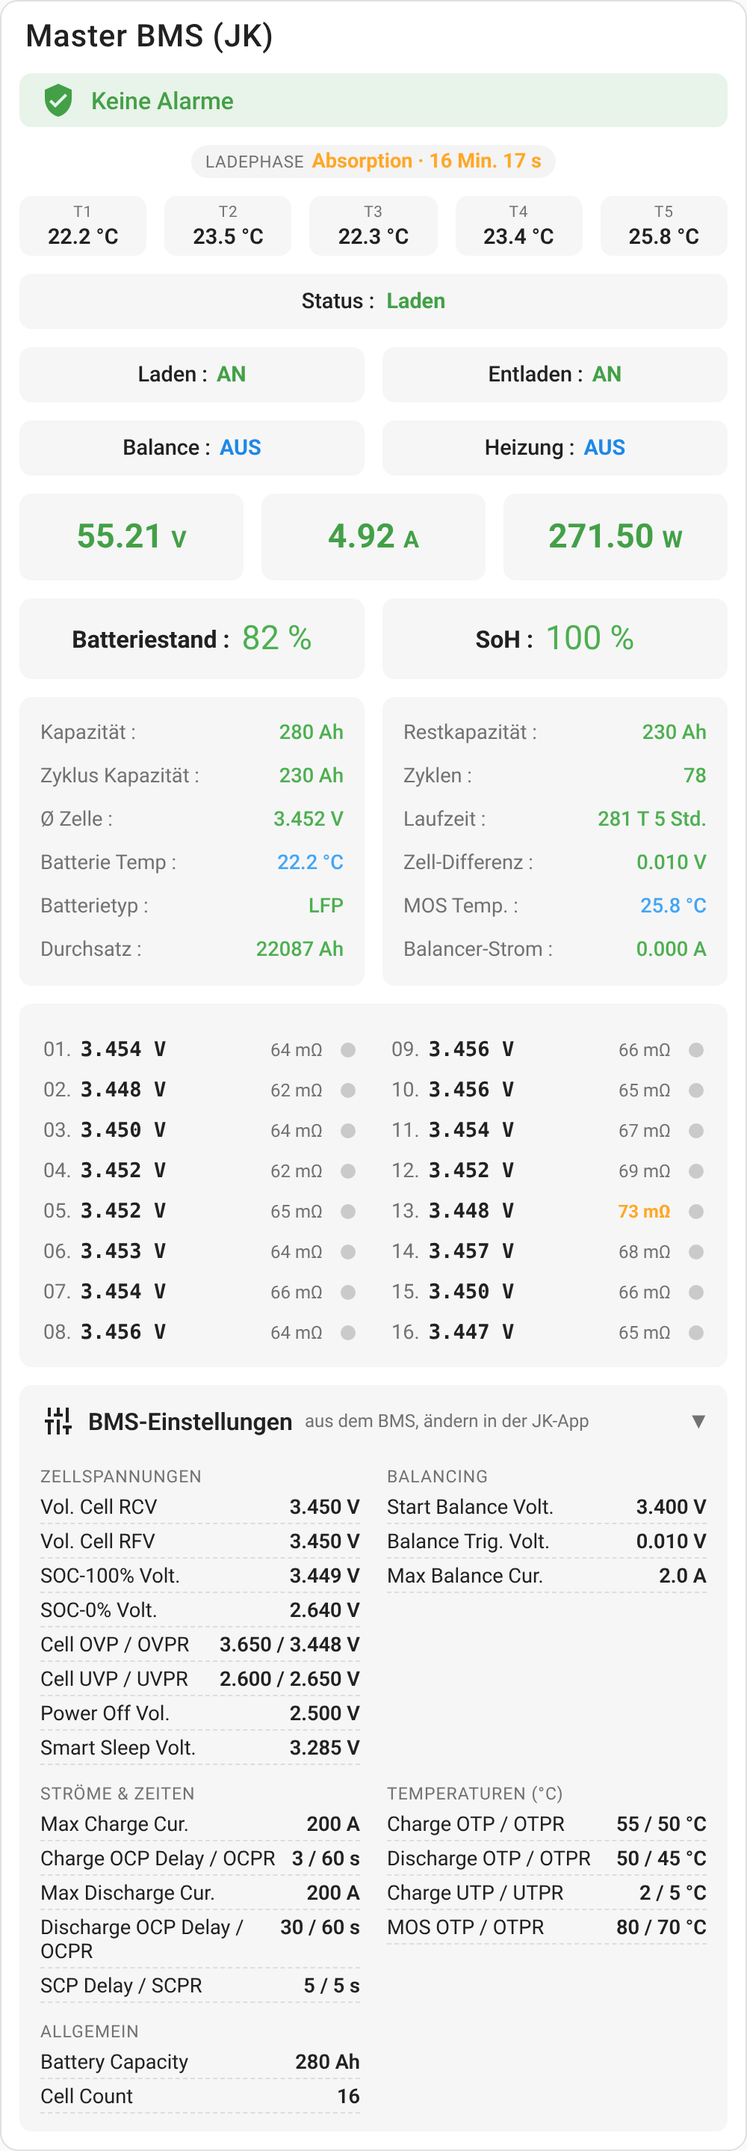
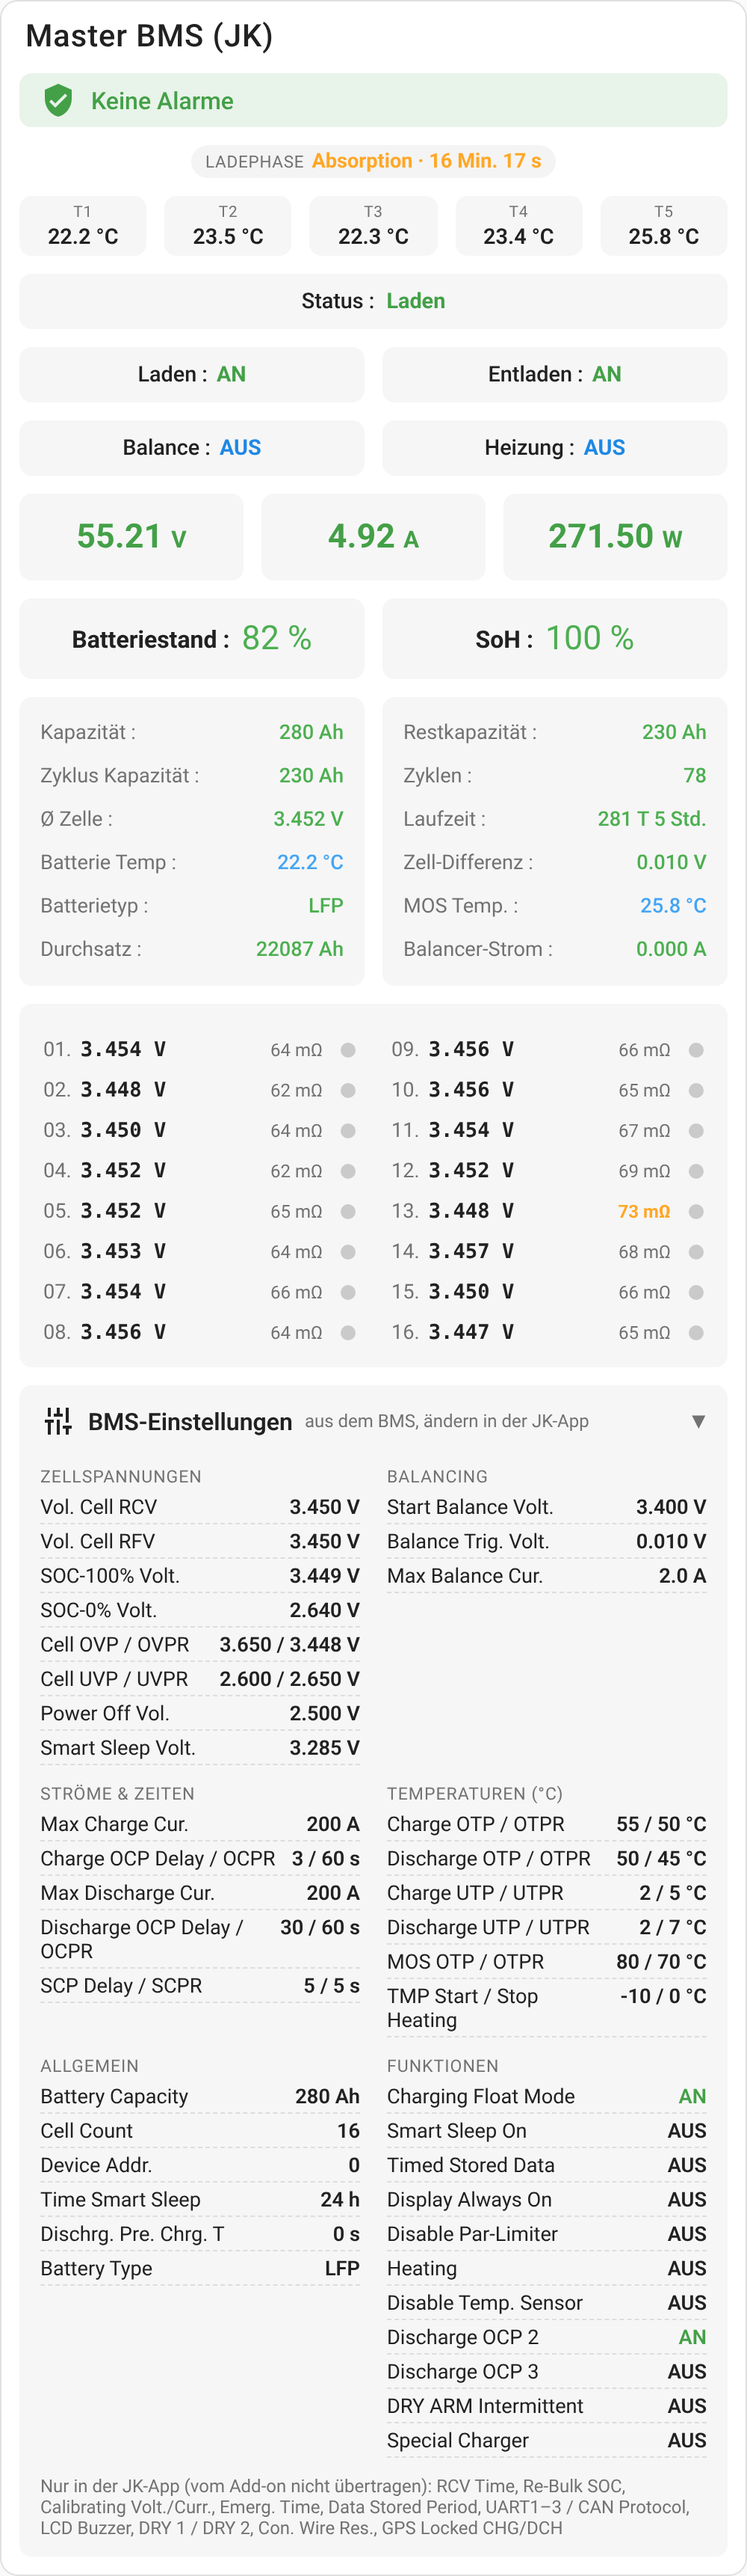
BMS-Einstellungen vollständig: alle Werte, die das Add-on liefert (v_2.0-jk.4)
- neu: Discharge UTP/UTPR, Heizung Start/Stop, Geräteadresse, Smart-Sleep-Zeit,
  Vorladezeit, Batterietyp
- neue Gruppe „Funktionen“: Charging Float Mode, Smart Sleep, Timed Stored Data,
  Display Always On, Par-Limiter, Heizung, Temp.-Sensor aus, Discharge OCP 2/3,
  DRY ARM Intermittent, Special Charger (AN/AUS)
- Hinweiszeile: Werte, die nur in der JK-App stehen (RCV Time, Re-Bulk SOC …),
  weil das Add-on sie nicht nach HA überträgt
- Screenshots neu

Claude-Session: https://claude.ai/code/session_01C5juEoGqVjLf8usnHZRGpz

diff --git a/dist/bms-battery-cells-card-jkbms.js b/dist/bms-battery-cells-card-jkbms.js
@@ -85,6 +85,8 @@ var de = {
         val_off: "Wert für OFF (z.B. 'Aus' oder 'False')"
     },
     card: {
+        set_func: "Funktionen",
+        set_app_only: "Nur in der JK-App (vom Add-on nicht übertragen)",
         bms_settings: "BMS-Einstellungen",
         bms_settings_hint: "aus dem BMS, ändern in der JK-App",
         set_volt: "Zellspannungen",
@@ -242,6 +244,8 @@ var en = {
         val_off: "Value for OFF (e.g. 'OFF' or 'False')"
     },
     card: {
+        set_func: "Functions",
+        set_app_only: "Only in the JK app (not sent by the add-on)",
         bms_settings: "BMS settings",
         bms_settings_hint: "read from BMS, change in JK app",
         set_volt: "Cell voltages",
@@ -663,11 +667,30 @@ const JK_SETTINGS = [
   ['temp', 'Charge OTP / OTPR', 'charge_overtemperature_protection', 'charge_overtemperature_protection_recovery', 0],
   ['temp', 'Discharge OTP / OTPR', 'discharge_overtemperature_protection', 'discharge_overtemperature_protection_recovery', 0],
   ['temp', 'Charge UTP / UTPR', 'charge_undertemperature_protection', 'charge_undertemperature_protection_recovery', 0],
+  ['temp', 'Discharge UTP / UTPR', 'sensor:discharge_undertemperature_protection', 'sensor:discharge_undertemperature_protection_recovery', 0],
   ['temp', 'MOS OTP / OTPR', 'power_tube_overtemperature_protection', 'power_tube_overtemperature_protection_recovery', 0],
+  ['temp', 'TMP Start / Stop Heating', 'sensor:heating_start_temperature', 'sensor:heating_stop_temperature', 0],
   ['gen', 'Battery Capacity', 'total_battery_capacity_ah', null, 0],
   ['gen', 'Cell Count', 'cell_count', null, 0],
+  ['gen', 'Device Addr.', 'device_address', null, 0],
+  ['gen', 'Time Smart Sleep', 'sensor:smart_sleep_delay', null, 0],
+  ['gen', 'Dischrg. Pre. Chrg. T', 'sensor:precharge_time', null, 0],
+  ['gen', 'Battery Type', 'sensor:battery_type_text', null, null],
+  ['func', 'Charging Float Mode', 'switch:charging_floating_mode', null, 'bool'],
+  ['func', 'Smart Sleep On', 'switch:smart_sleep_switch', null, 'bool'],
+  ['func', 'Timed Stored Data', 'switch:timed_stored_data_switch', null, 'bool'],
+  ['func', 'Display Always On', 'switch:display_always_on_switch', null, 'bool'],
+  ['func', 'Disable Par-Limiter', 'switch:disable_pcl_module_switch', null, 'bool'],
+  ['func', 'Heating', 'binary_sensor:heating_switch', null, 'bool'],
+  ['func', 'Disable Temp. Sensor', 'binary_sensor:disable_temperature_sensors', null, 'bool'],
+  ['func', 'Discharge OCP 2', 'binary_sensor:discharge_ocp2', null, 'bool'],
+  ['func', 'Discharge OCP 3', 'binary_sensor:discharge_ocp3', null, 'bool'],
+  ['func', 'DRY ARM Intermittent', 'binary_sensor:dry_alarm_intermittent', null, 'bool'],
+  ['func', 'Special Charger', 'binary_sensor:special_charger', null, 'bool'],
 ];
-const JK_SETTING_ID = 'number.{p}_bms_{k}';
+const JK_SETTING_ID = '{d}.{p}_bms_{k}';
+// In der JK-App einstellbar, vom Add-on aber nicht nach Home Assistant übertragen
+const JK_APP_ONLY = ['RCV Time', 'Re-Bulk SOC', 'Calibrating Volt./Curr.', 'Emerg. Time', 'Data Stored Period', 'UART1–3 / CAN Protocol', 'LCD Buzzer', 'DRY 1 / DRY 2', 'Con. Wire Res.', 'GPS Locked CHG/DCH'];
 
 const JK_TEMPS = ['temp_entity', 'temp_2_entity', 'temp_3_entity', 'temp_4_entity', 'temp_5_entity'];
 const JK_CELL = "sensor.{p}_bms_cell_{i}_volt";
@@ -1158,7 +1181,7 @@ class BmsBatteryCellsCard extends HTMLElement {
             this._config.cells = cells;
         }
         // BMS-Einstellungen: nur die Einträge, deren Entität es gibt
-        const sid = (k) => k ? fill(JK_SETTING_ID).replace('{k}', k) : null;
+        const sid = (k) => { if (!k) return null; const [d, n] = k.includes(':') ? k.split(':') : ['number', k]; return fill(JK_SETTING_ID).replace('{d}', d).replace('{k}', n); };
         this._jkSettings = JK_SETTINGS.map(([group, label, k1, k2, dec], i) => ({
             group, label, dec, idx: i,
             a: states[sid(k1)] ? sid(k1) : null,
@@ -1172,7 +1195,7 @@ class BmsBatteryCellsCard extends HTMLElement {
     }
 
     _renderJkSettingsHtml() {
-        const groups = [['volt', 'card.set_volt'], ['bal', 'card.set_bal'], ['cur', 'card.set_cur'], ['temp', 'card.set_temp'], ['gen', 'card.set_gen']];
+        const groups = [['volt', 'card.set_volt'], ['bal', 'card.set_bal'], ['cur', 'card.set_cur'], ['temp', 'card.set_temp'], ['gen', 'card.set_gen'], ['func', 'card.set_func']];
         const body = groups.map(([g, key]) => {
             const rows = this._jkSettings.filter(s => s.group === g);
             if (!rows.length) return '';
@@ -1182,17 +1205,27 @@ class BmsBatteryCellsCard extends HTMLElement {
         return `<details class="box jk-settings" ${this._config.jk_settings_open ? 'open' : ''}>
             <summary><ha-icon icon="mdi:tune-vertical"></ha-icon><span>${this._localize('card.bms_settings')}</span><span class="jk-set-hint">${this._localize('card.bms_settings_hint')}</span></summary>
             <div class="jk-set-grid">${body}</div>
+            <div class="jk-set-apponly">${this._localize('card.set_app_only')}: ${JK_APP_ONLY.join(', ')}</div>
         </details>`;
     }
 
     _updateJkSettings() {
         const fmt = (id, dec) => {
+            if (dec === null) { const s = this._getState(id); return s && !['unknown', 'unavailable'].includes(s) ? String(s) : '--'; }
             const v = this._parseNumber(id);
             return v === null ? '--' : v.toFixed(dec);
         };
         this._jkSettings.forEach(s => {
             const el = this.shadowRoot.getElementById(`jk-set-${s.idx}`);
             if (!el) return;
+            if (s.dec === 'bool') {
+                const st = String(this._getState(s.a) || '').toLowerCase();
+                const on = st === 'on';
+                const out = ['on', 'off'].includes(st) ? this._localize(on ? 'card.on' : 'card.off') : '--';
+                if (el.innerText !== out) el.innerText = out;
+                el.style.color = on ? '#43a047' : '';
+                return;
+            }
             const unit = this._getUnit(s.a);
             const txt = s.b ? `${fmt(s.a, s.dec)} / ${fmt(s.b, s.dec)}` : fmt(s.a, s.dec);
             const out = `${txt}${unit ? ' ' + unit : ''}`;
@@ -2125,6 +2158,7 @@ class BmsBatteryCellsCard extends HTMLElement {
                 .jk-set-head { font-size: 0.72rem; text-transform: uppercase; letter-spacing: .5px; color: var(--secondary-text-color); margin: 6px 0 2px; }
                 .jk-set-row { display: flex; justify-content: space-between; gap: 8px; font-size: 0.85rem; padding: 2px 0; border-bottom: 1px dashed rgba(127,127,127,.2); }
                 .jk-set-val { font-weight: 600; white-space: nowrap; }
+                .jk-set-apponly { padding: 0 14px 12px; font-size: 0.75rem; color: var(--secondary-text-color); }
                 @media (max-width: 500px) { .jk-set-grid { grid-template-columns: 1fr; } }
                 .jk-phase { flex-direction: row; justify-content: center; gap: 10px; }
                 .jk-info { display: flex; flex-wrap: wrap; gap: 6px 8px; justify-content: center; align-items: center; }

diff --git a/src/bms-battery-cells-card.js b/src/bms-battery-cells-card.js
@@ -94,11 +94,30 @@ const JK_SETTINGS = [
   ['temp', 'Charge OTP / OTPR', 'charge_overtemperature_protection', 'charge_overtemperature_protection_recovery', 0],
   ['temp', 'Discharge OTP / OTPR', 'discharge_overtemperature_protection', 'discharge_overtemperature_protection_recovery', 0],
   ['temp', 'Charge UTP / UTPR', 'charge_undertemperature_protection', 'charge_undertemperature_protection_recovery', 0],
+  ['temp', 'Discharge UTP / UTPR', 'sensor:discharge_undertemperature_protection', 'sensor:discharge_undertemperature_protection_recovery', 0],
   ['temp', 'MOS OTP / OTPR', 'power_tube_overtemperature_protection', 'power_tube_overtemperature_protection_recovery', 0],
+  ['temp', 'TMP Start / Stop Heating', 'sensor:heating_start_temperature', 'sensor:heating_stop_temperature', 0],
   ['gen', 'Battery Capacity', 'total_battery_capacity_ah', null, 0],
   ['gen', 'Cell Count', 'cell_count', null, 0],
+  ['gen', 'Device Addr.', 'device_address', null, 0],
+  ['gen', 'Time Smart Sleep', 'sensor:smart_sleep_delay', null, 0],
+  ['gen', 'Dischrg. Pre. Chrg. T', 'sensor:precharge_time', null, 0],
+  ['gen', 'Battery Type', 'sensor:battery_type_text', null, null],
+  ['func', 'Charging Float Mode', 'switch:charging_floating_mode', null, 'bool'],
+  ['func', 'Smart Sleep On', 'switch:smart_sleep_switch', null, 'bool'],
+  ['func', 'Timed Stored Data', 'switch:timed_stored_data_switch', null, 'bool'],
+  ['func', 'Display Always On', 'switch:display_always_on_switch', null, 'bool'],
+  ['func', 'Disable Par-Limiter', 'switch:disable_pcl_module_switch', null, 'bool'],
+  ['func', 'Heating', 'binary_sensor:heating_switch', null, 'bool'],
+  ['func', 'Disable Temp. Sensor', 'binary_sensor:disable_temperature_sensors', null, 'bool'],
+  ['func', 'Discharge OCP 2', 'binary_sensor:discharge_ocp2', null, 'bool'],
+  ['func', 'Discharge OCP 3', 'binary_sensor:discharge_ocp3', null, 'bool'],
+  ['func', 'DRY ARM Intermittent', 'binary_sensor:dry_alarm_intermittent', null, 'bool'],
+  ['func', 'Special Charger', 'binary_sensor:special_charger', null, 'bool'],
 ];
-const JK_SETTING_ID = 'number.{p}_bms_{k}';
+const JK_SETTING_ID = '{d}.{p}_bms_{k}';
+// In der JK-App einstellbar, vom Add-on aber nicht nach Home Assistant übertragen
+const JK_APP_ONLY = ['RCV Time', 'Re-Bulk SOC', 'Calibrating Volt./Curr.', 'Emerg. Time', 'Data Stored Period', 'UART1–3 / CAN Protocol', 'LCD Buzzer', 'DRY 1 / DRY 2', 'Con. Wire Res.', 'GPS Locked CHG/DCH'];
 
 const JK_TEMPS = ['temp_entity', 'temp_2_entity', 'temp_3_entity', 'temp_4_entity', 'temp_5_entity'];
 const JK_CELL = "sensor.{p}_bms_cell_{i}_volt";
@@ -589,7 +608,7 @@ class BmsBatteryCellsCard extends HTMLElement {
             this._config.cells = cells;
         }
         // BMS-Einstellungen: nur die Einträge, deren Entität es gibt
-        const sid = (k) => k ? fill(JK_SETTING_ID).replace('{k}', k) : null;
+        const sid = (k) => { if (!k) return null; const [d, n] = k.includes(':') ? k.split(':') : ['number', k]; return fill(JK_SETTING_ID).replace('{d}', d).replace('{k}', n); };
         this._jkSettings = JK_SETTINGS.map(([group, label, k1, k2, dec], i) => ({
             group, label, dec, idx: i,
             a: states[sid(k1)] ? sid(k1) : null,
@@ -603,7 +622,7 @@ class BmsBatteryCellsCard extends HTMLElement {
     }
 
     _renderJkSettingsHtml() {
-        const groups = [['volt', 'card.set_volt'], ['bal', 'card.set_bal'], ['cur', 'card.set_cur'], ['temp', 'card.set_temp'], ['gen', 'card.set_gen']];
+        const groups = [['volt', 'card.set_volt'], ['bal', 'card.set_bal'], ['cur', 'card.set_cur'], ['temp', 'card.set_temp'], ['gen', 'card.set_gen'], ['func', 'card.set_func']];
         const body = groups.map(([g, key]) => {
             const rows = this._jkSettings.filter(s => s.group === g);
             if (!rows.length) return '';
@@ -613,17 +632,27 @@ class BmsBatteryCellsCard extends HTMLElement {
         return `<details class="box jk-settings" ${this._config.jk_settings_open ? 'open' : ''}>
             <summary><ha-icon icon="mdi:tune-vertical"></ha-icon><span>${this._localize('card.bms_settings')}</span><span class="jk-set-hint">${this._localize('card.bms_settings_hint')}</span></summary>
             <div class="jk-set-grid">${body}</div>
+            <div class="jk-set-apponly">${this._localize('card.set_app_only')}: ${JK_APP_ONLY.join(', ')}</div>
         </details>`;
     }
 
     _updateJkSettings() {
         const fmt = (id, dec) => {
+            if (dec === null) { const s = this._getState(id); return s && !['unknown', 'unavailable'].includes(s) ? String(s) : '--'; }
             const v = this._parseNumber(id);
             return v === null ? '--' : v.toFixed(dec);
         };
         this._jkSettings.forEach(s => {
             const el = this.shadowRoot.getElementById(`jk-set-${s.idx}`);
             if (!el) return;
+            if (s.dec === 'bool') {
+                const st = String(this._getState(s.a) || '').toLowerCase();
+                const on = st === 'on';
+                const out = ['on', 'off'].includes(st) ? this._localize(on ? 'card.on' : 'card.off') : '--';
+                if (el.innerText !== out) el.innerText = out;
+                el.style.color = on ? '#43a047' : '';
+                return;
+            }
             const unit = this._getUnit(s.a);
             const txt = s.b ? `${fmt(s.a, s.dec)} / ${fmt(s.b, s.dec)}` : fmt(s.a, s.dec);
             const out = `${txt}${unit ? ' ' + unit : ''}`;
@@ -1556,6 +1585,7 @@ class BmsBatteryCellsCard extends HTMLElement {
                 .jk-set-head { font-size: 0.72rem; text-transform: uppercase; letter-spacing: .5px; color: var(--secondary-text-color); margin: 6px 0 2px; }
                 .jk-set-row { display: flex; justify-content: space-between; gap: 8px; font-size: 0.85rem; padding: 2px 0; border-bottom: 1px dashed rgba(127,127,127,.2); }
                 .jk-set-val { font-weight: 600; white-space: nowrap; }
+                .jk-set-apponly { padding: 0 14px 12px; font-size: 0.75rem; color: var(--secondary-text-color); }
                 @media (max-width: 500px) { .jk-set-grid { grid-template-columns: 1fr; } }
                 .jk-phase { flex-direction: row; justify-content: center; gap: 10px; }
                 .jk-info { display: flex; flex-wrap: wrap; gap: 6px 8px; justify-content: center; align-items: center; }

diff --git a/src/lang-de.js b/src/lang-de.js
@@ -85,6 +85,8 @@ export default {
         val_off: "Wert für OFF (z.B. 'Aus' oder 'False')"
     },
     card: {
+        set_func: "Funktionen",
+        set_app_only: "Nur in der JK-App (vom Add-on nicht übertragen)",
         bms_settings: "BMS-Einstellungen",
         bms_settings_hint: "aus dem BMS, ändern in der JK-App",
         set_volt: "Zellspannungen",

diff --git a/src/lang-en.js b/src/lang-en.js
@@ -85,6 +85,8 @@ export default {
         val_off: "Value for OFF (e.g. 'OFF' or 'False')"
     },
     card: {
+        set_func: "Functions",
+        set_app_only: "Only in the JK app (not sent by the add-on)",
         bms_settings: "BMS settings",
         bms_settings_hint: "read from BMS, change in JK app",
         set_volt: "Cell voltages",
